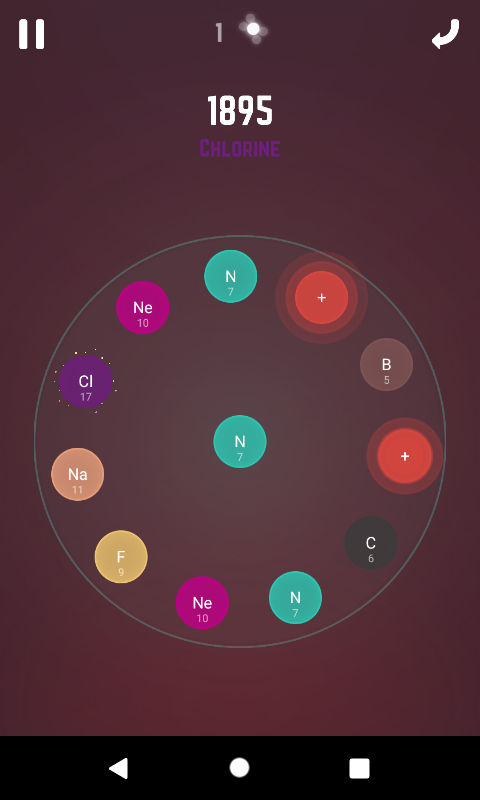
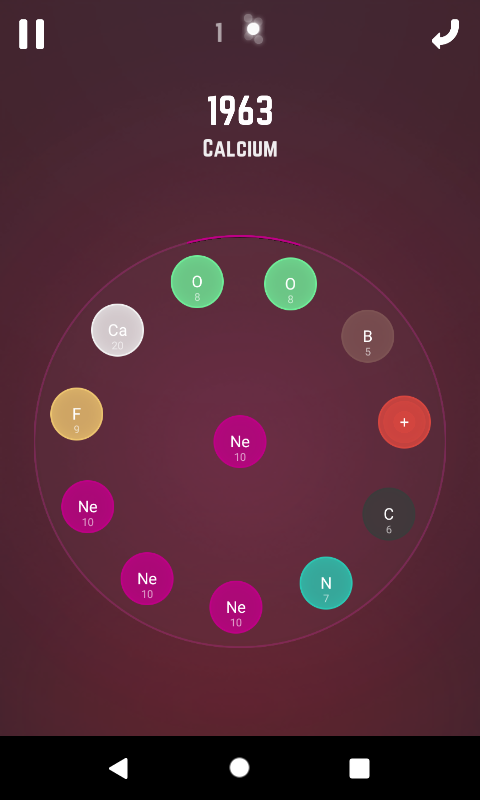
chore(assets): refresh output images

diff --git a/README.md b/README.md
@@ -7,7 +7,7 @@ Atomas is a Rust AI helper that uses OpenCV to detect, parse, and analyze game s
 ## 📸 Visual Overview
 
 ### Input: Game Screenshot
-![Input](assets/jpg/board.jpg)
+![Input](assets/png/runtime/current_screen.png)
 
 ### Output: Detected Game State
 
